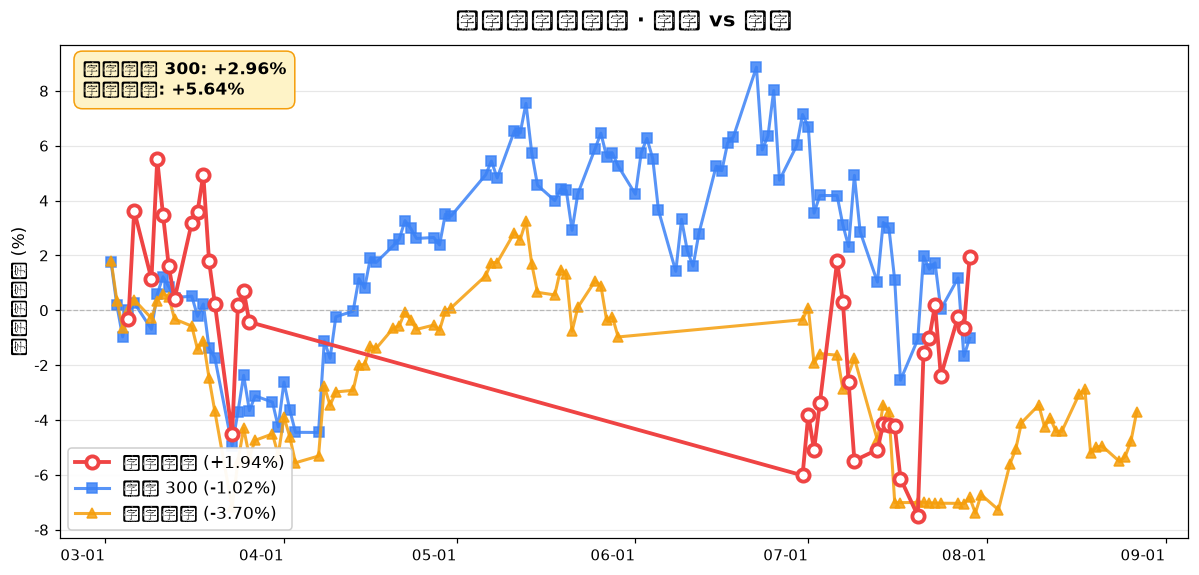
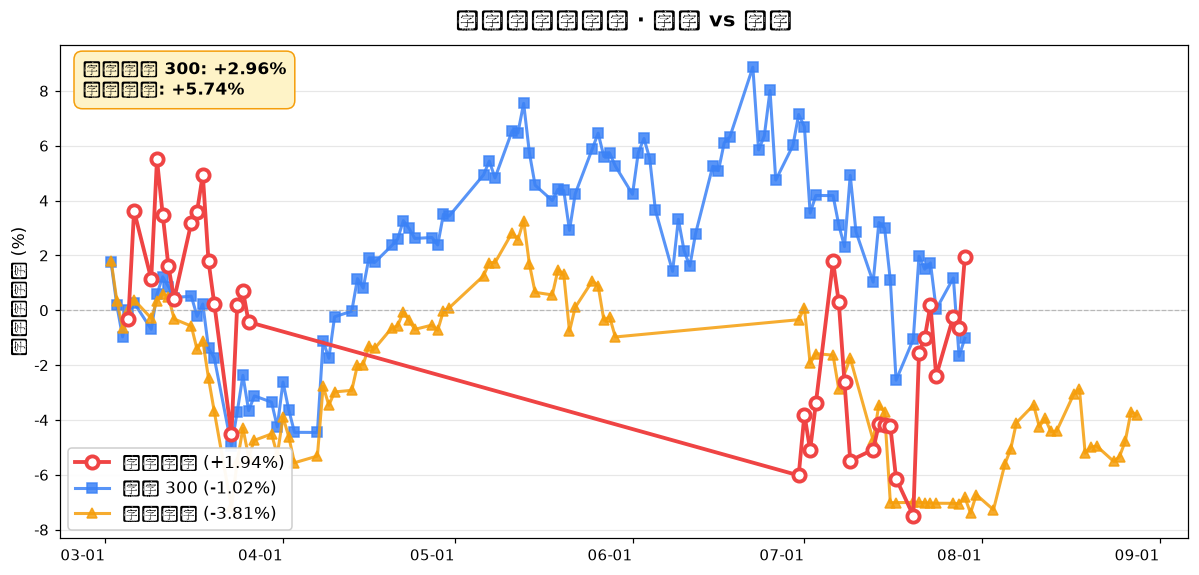
deploy dashboard 2026-08-28

diff --git a/dashboard/index.html b/dashboard/index.html
@@ -111,7 +111,7 @@
 
 <div class="header">
   <h1 data-i18n="title">📊 持仓 Dashboard</h1>
-  <div class="date">2026-08-28 · 更新于 08:21</div>
+  <div class="date">2026-08-28 · 更新于 08:39</div>
 </div>
 
 <div class="hero-pnl" style="padding:16px">
@@ -157,7 +157,7 @@
 
 <div class="excess">
         <b>🔴 跑赢 沪深 300</b>: +2.96%<br>
-        <b>🔴 跑赢 上证指数</b>: +5.64%
+        <b>🔴 跑赢 上证指数</b>: +5.74%
     </div>
 
 <div class="section">
